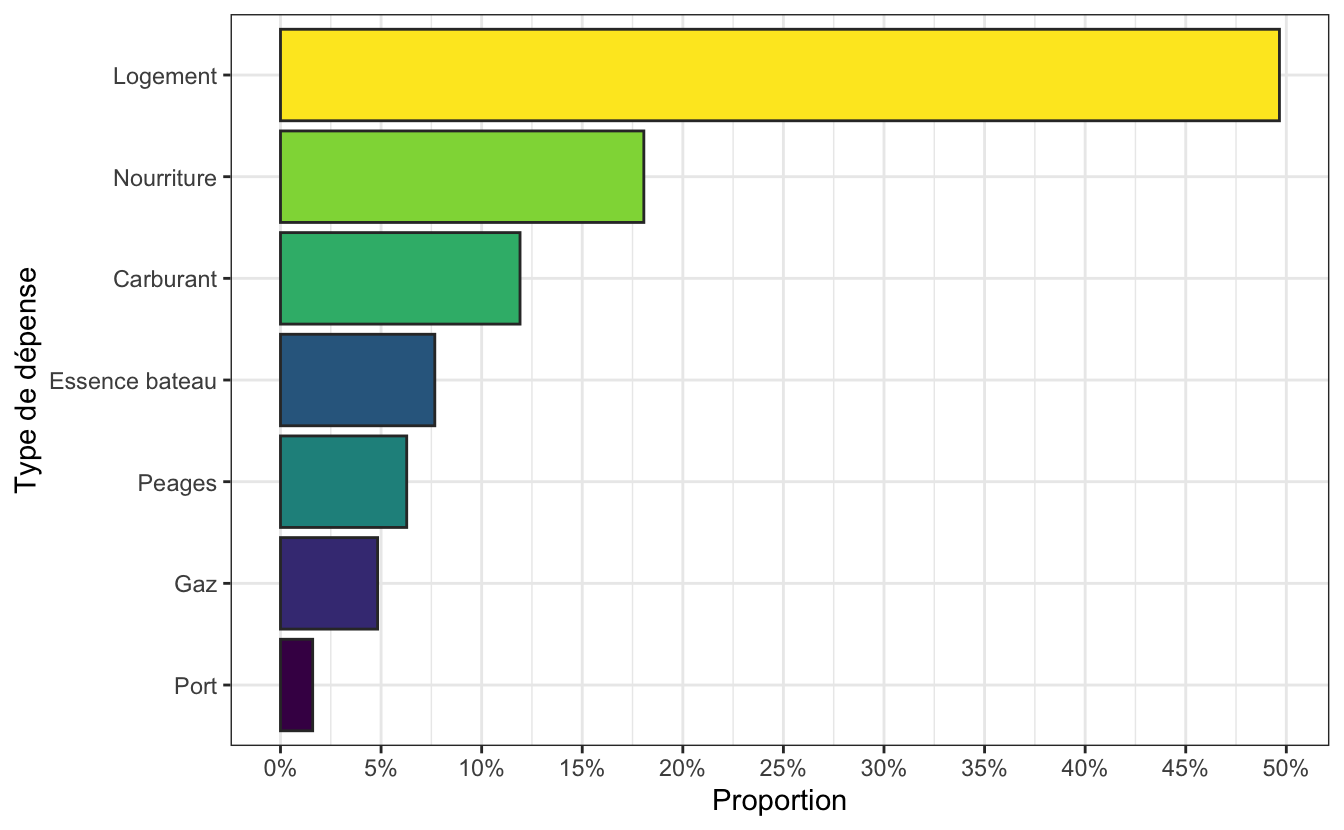
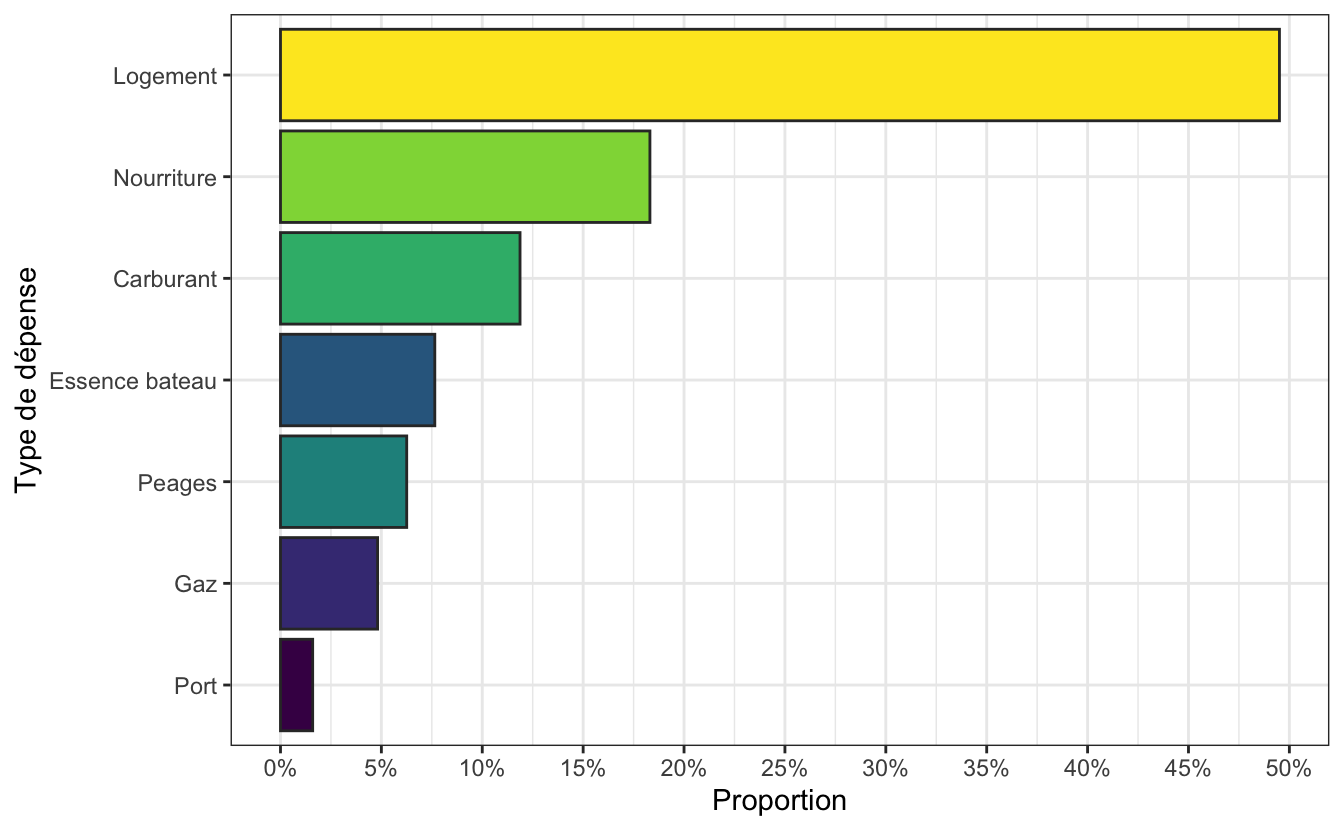
maj comptes cavlaire 2025

diff --git a/docs/Cavalaire2025.html b/docs/Cavalaire2025.html
@@ -717,12 +717,12 @@ Table&nbsp;4: Dépenses hors plongées engagées par les participants à la sort
 <tr class="even">
 <td style="text-align: right;">Pierre</td>
 <td style="text-align: right;">266.66€</td>
-<td style="text-align: right;">194.32€</td>
+<td style="text-align: right;">207.72€</td>
 <td style="text-align: right;">101.56€</td>
 <td style="text-align: right;">68.90€</td>
 <td style="text-align: right;">0€</td>
 <td style="text-align: right;">0€</td>
-<td style="text-align: right;">631.44€</td>
+<td style="text-align: right;">644.84€</td>
 </tr>
 <tr class="odd">
 <td style="text-align: right; border-bottom: 1px solid;">Thomas</td>
@@ -737,12 +737,12 @@ Table&nbsp;4: Dépenses hors plongées engagées par les participants à la sort
 <tr class="even">
 <td style="text-align: right; font-weight: bold;">Total</td>
 <td style="text-align: right; font-weight: bold;">2,201.04€</td>
-<td style="text-align: right; font-weight: bold;">800.58€</td>
+<td style="text-align: right; font-weight: bold;">813.98€</td>
 <td style="text-align: right; font-weight: bold;">527.79€</td>
 <td style="text-align: right; font-weight: bold;">278.10€</td>
 <td style="text-align: right; font-weight: bold;">0€</td>
 <td style="text-align: right; font-weight: bold;">0€</td>
-<td style="text-align: right; font-weight: bold;">3,807.51€</td>
+<td style="text-align: right; font-weight: bold;">3,820.91€</td>
 </tr>
 </tbody>
 </table>
@@ -826,7 +826,7 @@ Table&nbsp;6: Coûts unitaires par personne
 <tbody>
 <tr class="odd">
 <td style="text-align: right;">34.94€</td>
-<td style="text-align: right;">4.24€</td>
+<td style="text-align: right;">4.31€</td>
 <td style="text-align: right;">58.64€</td>
 <td style="text-align: right;">30.90€</td>
 </tr>
@@ -887,13 +887,13 @@ Table&nbsp;7: Bilan des coûts par plongeur et par poste
 </tr>
 <tr class="odd">
 <td style="text-align: right;">Nourriture</td>
-<td style="text-align: right;">88.95€</td>
-<td style="text-align: right;">88.95€</td>
-<td style="text-align: right;">88.95€</td>
-<td style="text-align: right;">177.91€</td>
-<td style="text-align: right;">88.95€</td>
-<td style="text-align: right;">177.91€</td>
-<td style="text-align: right;">88.95€</td>
+<td style="text-align: right;">90.44€</td>
+<td style="text-align: right;">90.44€</td>
+<td style="text-align: right;">90.44€</td>
+<td style="text-align: right;">180.88€</td>
+<td style="text-align: right;">90.44€</td>
+<td style="text-align: right;">180.88€</td>
+<td style="text-align: right;">90.44€</td>
 </tr>
 <tr class="even">
 <td style="text-align: right;">Carburant</td>
@@ -917,13 +917,13 @@ Table&nbsp;7: Bilan des coûts par plongeur et par poste
 </tr>
 <tr class="even">
 <td style="text-align: right; font-weight: bold;">Total</td>
-<td style="text-align: right; font-weight: bold;">545.77€</td>
-<td style="text-align: right; font-weight: bold;">545.77€</td>
-<td style="text-align: right; font-weight: bold;">545.77€</td>
-<td style="text-align: right; font-weight: bold;">968.82€</td>
-<td style="text-align: right; font-weight: bold;">545.77€</td>
-<td style="text-align: right; font-weight: bold;">863.64€</td>
-<td style="text-align: right; font-weight: bold;">545.77€</td>
+<td style="text-align: right; font-weight: bold;">547.26€</td>
+<td style="text-align: right; font-weight: bold;">547.26€</td>
+<td style="text-align: right; font-weight: bold;">547.26€</td>
+<td style="text-align: right; font-weight: bold;">971.80€</td>
+<td style="text-align: right; font-weight: bold;">547.26€</td>
+<td style="text-align: right; font-weight: bold;">866.62€</td>
+<td style="text-align: right; font-weight: bold;">547.26€</td>
 </tr>
 </tbody>
 </table>
@@ -949,37 +949,37 @@ Table&nbsp;7: Bilan des coûts par plongeur et par poste
 <tr class="odd">
 <td style="text-align: right;">Baptiste</td>
 <td style="text-align: right;">rembourse à l'AP</td>
-<td style="text-align: right;">85.70€</td>
+<td style="text-align: right;">87.19€</td>
 </tr>
 <tr class="even">
 <td style="text-align: right;">Jean-Claude</td>
 <td style="text-align: right;">rembourse à l'AP</td>
-<td style="text-align: right;">266.40€</td>
+<td style="text-align: right;">267.89€</td>
 </tr>
 <tr class="odd">
 <td style="text-align: right;">Nathalie</td>
 <td style="text-align: right;">rembourse à l'AP</td>
-<td style="text-align: right;">133.84€</td>
+<td style="text-align: right;">135.33€</td>
 </tr>
 <tr class="even">
 <td style="text-align: right;">Pierre</td>
 <td style="text-align: right;">rembourse à l'AP</td>
-<td style="text-align: right;">18.20€</td>
+<td style="text-align: right;">7.78€</td>
 </tr>
 <tr class="odd">
 <td style="text-align: right;">Thomas</td>
 <td style="text-align: right;">rembourse à l'AP</td>
-<td style="text-align: right;">279.11€</td>
+<td style="text-align: right;">280.60€</td>
 </tr>
 <tr class="even">
 <td style="text-align: right;">Benoît</td>
 <td style="text-align: right;">se fait rembourser par l'AP</td>
-<td style="text-align: right;">636.30€</td>
+<td style="text-align: right;">634.81€</td>
 </tr>
 <tr class="odd">
 <td style="text-align: right;">Jérôme</td>
 <td style="text-align: right;">se fait rembourser par l'AP</td>
-<td style="text-align: right;">18.05€</td>
+<td style="text-align: right;">15.07€</td>
 </tr>
 </tbody>
 </table>
